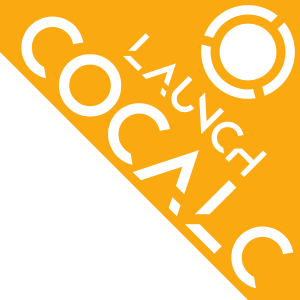
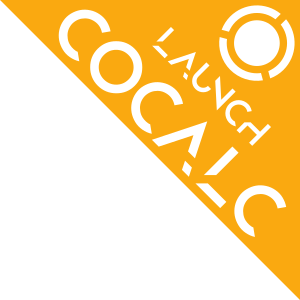
fix sagemath link, adding some references, and tweaking the corner cocalc img

Changed region(s): [[0.0, 0.0, 1.0, 1.0]]

diff --git a/source/teaching-students.rst b/source/teaching-students.rst
@@ -11,7 +11,7 @@ Hello and welcome to CoCalc! You are part of a course ... now what?
 What is CoCalc?
 ===============
 
-CoCalc is a cloud service that provides support for courses based on interactive resources such as the `Jupyter Notebooks <http://jupyter.org>`_ , `SageMath Worksheets <_http://sagemath.org>`_, :doc:`LaTeX documents <latex>`, etc.
+CoCalc is a cloud service that provides support for courses based on interactive resources such as the :ref:`Jupyter Notebooks <Jupyter Notebook>`, :ref:`SageMath Worksheets <Sage Worksheet>`, :ref:`LaTeX documents <LaTeX Editor>`, etc.
 
 Why CoCalc?
 ------------------------------------------

diff --git a/source/sagews.rst b/source/sagews.rst
@@ -1,4 +1,10 @@
+.. index:: Sage Worksheet
+.. _Sage Worksheet:
+
+
+===============
 Sage Worksheets
 ===============
 
 Create a "Sage Worksheet" file to start working with [SageMath]_ on [CoCalc]_.
+

diff --git a/source/jupyter.rst b/source/jupyter.rst
@@ -1,3 +1,6 @@
+.. index:: Jupyter Notebook
+.. _Jupyter Notebook:
+
 =================
 Jupyter Notebooks
 =================

diff --git a/source/latex.rst b/source/latex.rst
@@ -1,3 +1,5 @@
+.. _LaTeX Editor:
+
 ======================
 LaTeX Editor
 ======================
